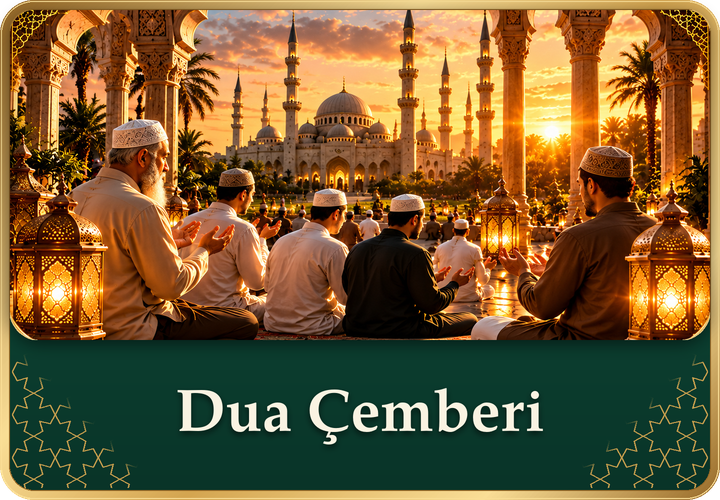
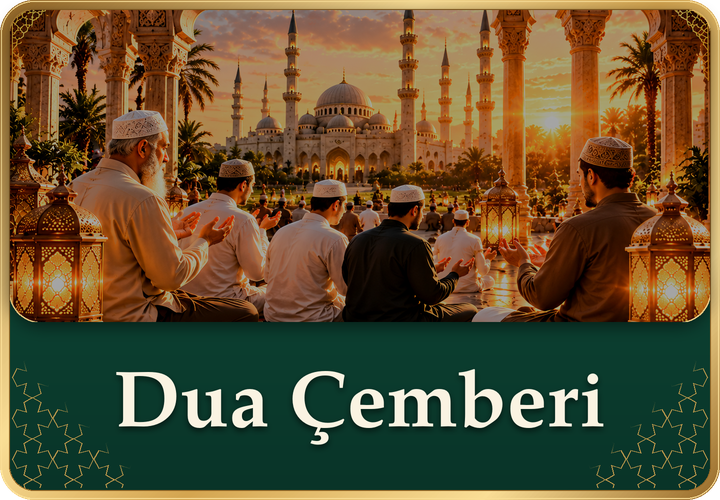
Ana ekran düzeltmeleri
- Cami her ekran boyunda ortalanıyor, arka plan ışığı yumuşatıldı
- Levhalar büyüdü (96dp), çerçeveleri sadeleştirildi
- Ayet geri sayımın sol üstünde, satırlar aşağı doğru genişliyor
- Tuşlar kaydırmasız ve yukarıda; saat küçüldü
- Tuş görsellerinin arka planı yumuşatıldı, yazılar büyüdü

Claude-Session: https://claude.ai/code/session_019pfDkEc2UYJNhPcs8tet7Y

diff --git a/lib/screens/home_screen.dart b/lib/screens/home_screen.dart
@@ -1,4 +1,5 @@
 import 'dart:async';
+import 'dart:math' as math;
 
 import 'package:flutter/material.dart';
 import 'package:url_launcher/url_launcher.dart';
@@ -138,14 +139,16 @@ class _HomeScreenState extends State<HomeScreen> {
             // ÜST YARI - ANA GÖRSEL + GERİ SAYIM
             // ============================================================
             Expanded(
-              flex: 50,
               child: Stack(
                 children: [
+                  // Arka plan: cami her ekran boyunda ortada dursun
                   Positioned.fill(
-                    child: Image.asset(
-                      'assets/images/home_hero.png',
-                      fit: BoxFit.cover,
-                      alignment: const Alignment(0, -0.3),
+                    child: LayoutBuilder(
+                      builder: (context, box) => Image.asset(
+                        'assets/images/home_hero.jpg',
+                        fit: BoxFit.cover,
+                        alignment: _heroAlignment(box.biggest),
+                      ),
                     ),
                   ),
 
@@ -206,7 +209,7 @@ class _HomeScreenState extends State<HomeScreen> {
                                     '${two(now.hour)}:${two(now.minute)}:${two(now.second)}',
                                     style: const TextStyle(
                                       color: AppColors.goldLight,
-                                      fontSize: 26,
+                                      fontSize: 20,
                                       fontWeight: FontWeight.w800,
                                       letterSpacing: 1,
                                       shadows: shadow,
@@ -230,18 +233,34 @@ class _HomeScreenState extends State<HomeScreen> {
                     child: Column(
                       crossAxisAlignment: CrossAxisAlignment.start,
                       children: [
+                        // Ayet: satırlar yukarıdan aşağı genişler
                         const Padding(
-                          padding: EdgeInsets.only(left: 16, right: 120, bottom: 4),
-                          child: Text(
-                            '“Şüphesiz namaz, müminler üzerine vakitleri '
-                            'belirlenmiş bir farzdır.”\n— Nisâ, 103',
-                            style: TextStyle(
-                              color: Colors.white,
-                              fontSize: 13,
-                              fontWeight: FontWeight.w600,
-                              height: 1.3,
-                              shadows: shadow,
-                            ),
+                          padding: EdgeInsets.only(left: 14, bottom: 6),
+                          child: Column(
+                            crossAxisAlignment: CrossAxisAlignment.start,
+                            children: [
+                              Text(
+                                '“Şüphesiz\nnamaz, müminler\nüzerine vakitleri\nbelirlenmiş bir farzdır.”',
+                                style: TextStyle(
+                                  color: Colors.white,
+                                  fontSize: 14,
+                                  fontWeight: FontWeight.w600,
+                                  height: 1.3,
+                                  fontStyle: FontStyle.italic,
+                                  shadows: shadow,
+                                ),
+                              ),
+                              SizedBox(height: 2),
+                              Text(
+                                'Nisâ, 103',
+                                style: TextStyle(
+                                  color: AppColors.goldLight,
+                                  fontSize: 12,
+                                  fontWeight: FontWeight.w600,
+                                  shadows: shadow,
+                                ),
+                              ),
+                            ],
                           ),
                         ),
                         GestureDetector(
@@ -256,13 +275,12 @@ class _HomeScreenState extends State<HomeScreen> {
             ),
 
             // ============================================================
-            // ALT YARI - 12 TUŞ
+            // ALT KISIM - 12 TUŞ (kaydırmasız, kendi yüksekliği kadar)
             // ============================================================
-            Expanded(
-              flex: 50,
-              child: GridView.builder(
-                padding: const EdgeInsets.fromLTRB(6, 8, 6, 8),
-                physics: const BouncingScrollPhysics(),
+            GridView.builder(
+                shrinkWrap: true,
+                padding: const EdgeInsets.fromLTRB(6, 6, 6, 6),
+                physics: const NeverScrollableScrollPhysics(),
                 gridDelegate: const SliverGridDelegateWithFixedCrossAxisCount(
                   crossAxisCount: 3,
                   crossAxisSpacing: 6,
@@ -286,11 +304,25 @@ class _HomeScreenState extends State<HomeScreen> {
                   );
                 },
               ),
-            ),
           ],
         ),
       ),
     );
+  }
+
+  /// Arka plan fotoğrafını, caminin kutunun ortasına geleceği şekilde hizalar.
+  static Alignment _heroAlignment(Size box) {
+    const imgW = 1536.0, imgH = 1024.0;
+    const mosqueX = 0.54, mosqueY = 0.45; // caminin fotoğraftaki yeri (oran)
+    final scale = math.max(box.width / imgW, box.height / imgH);
+    double axis(double frac, double scaled, double view) {
+      final extra = scaled - view;
+      if (extra <= 0.5) return 0;
+      final offset = (frac * scaled - view / 2).clamp(0.0, extra);
+      return offset / extra * 2 - 1;
+    }
+
+    return Alignment(axis(mosqueX, imgW * scale, box.width), axis(mosqueY, imgH * scale, box.height));
   }
 }
 
@@ -303,8 +335,8 @@ class _Medallion extends StatelessWidget {
   @override
   Widget build(BuildContext context) {
     return SizedBox(
-      width: 72,
-      height: 78,
+      width: 96,
+      height: 96,
       child: DecoratedBox(
         decoration: const BoxDecoration(
           shape: BoxShape.circle,
